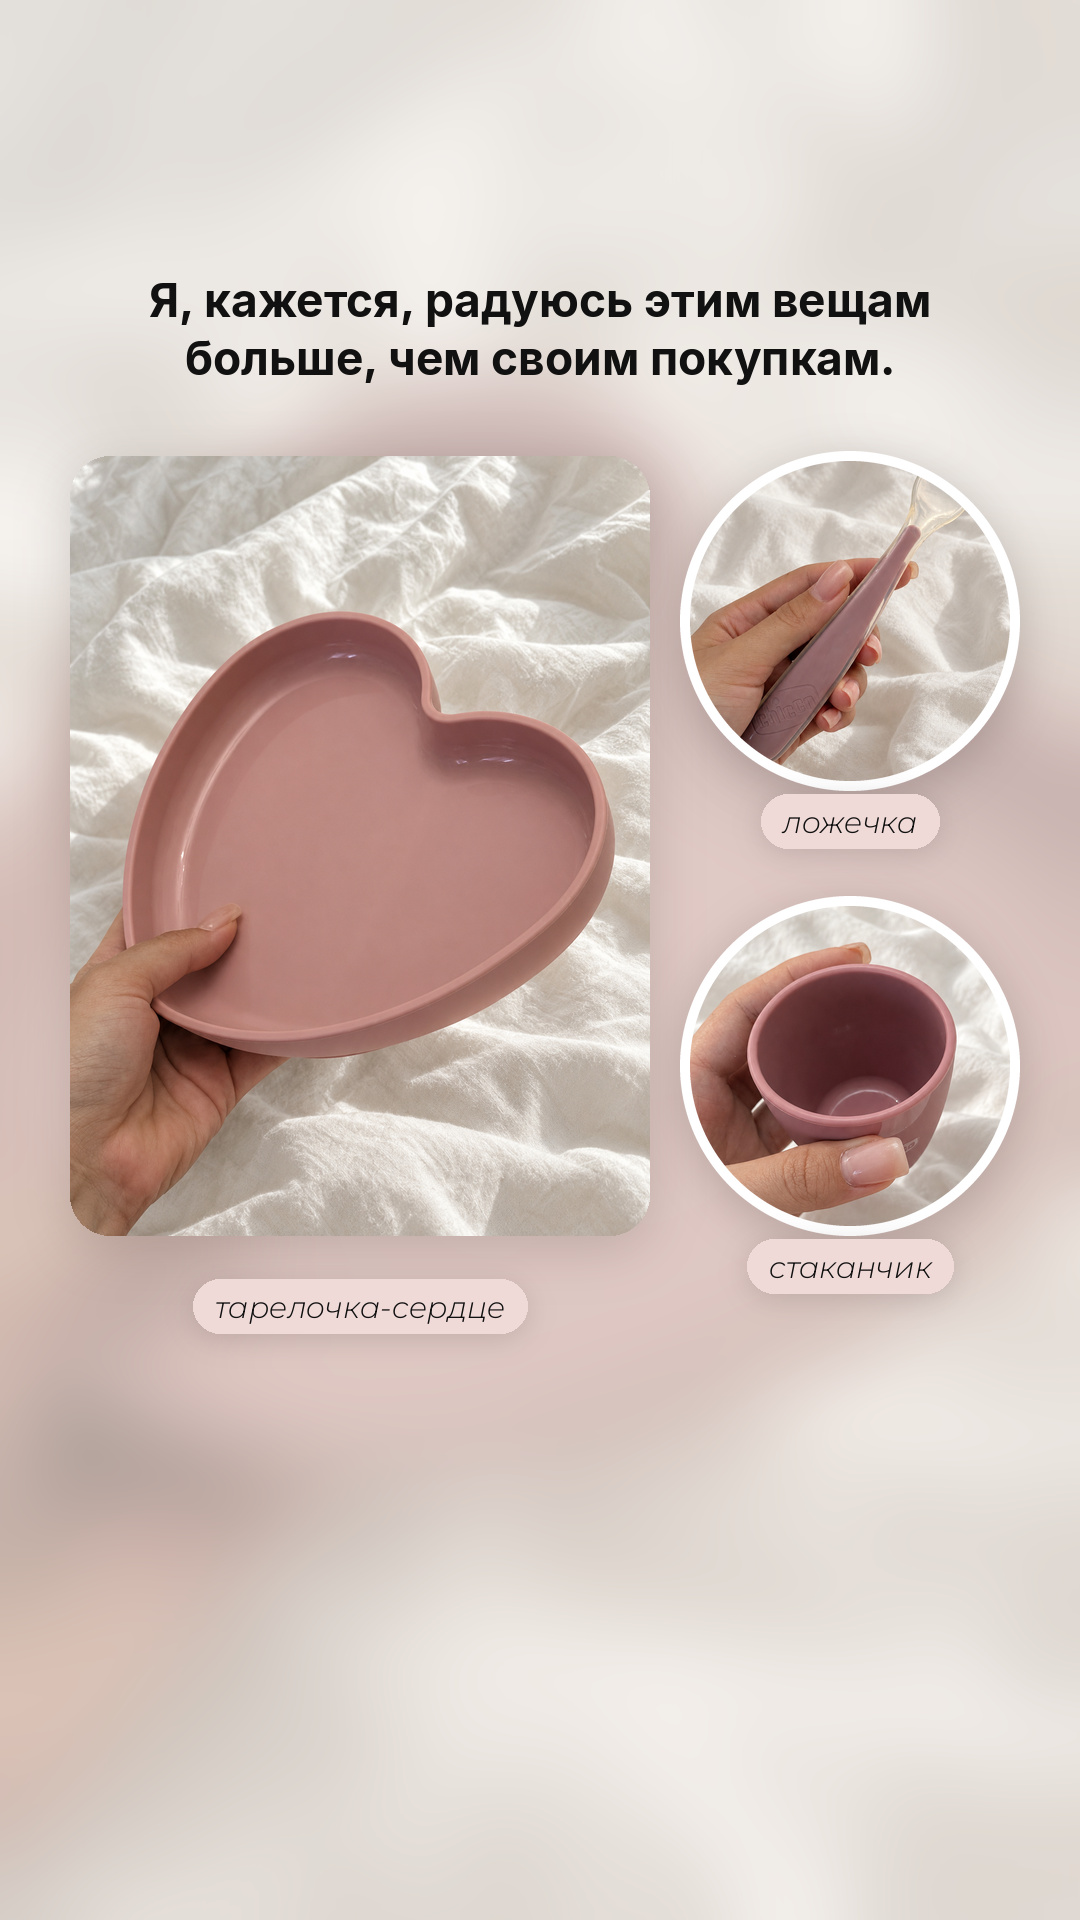
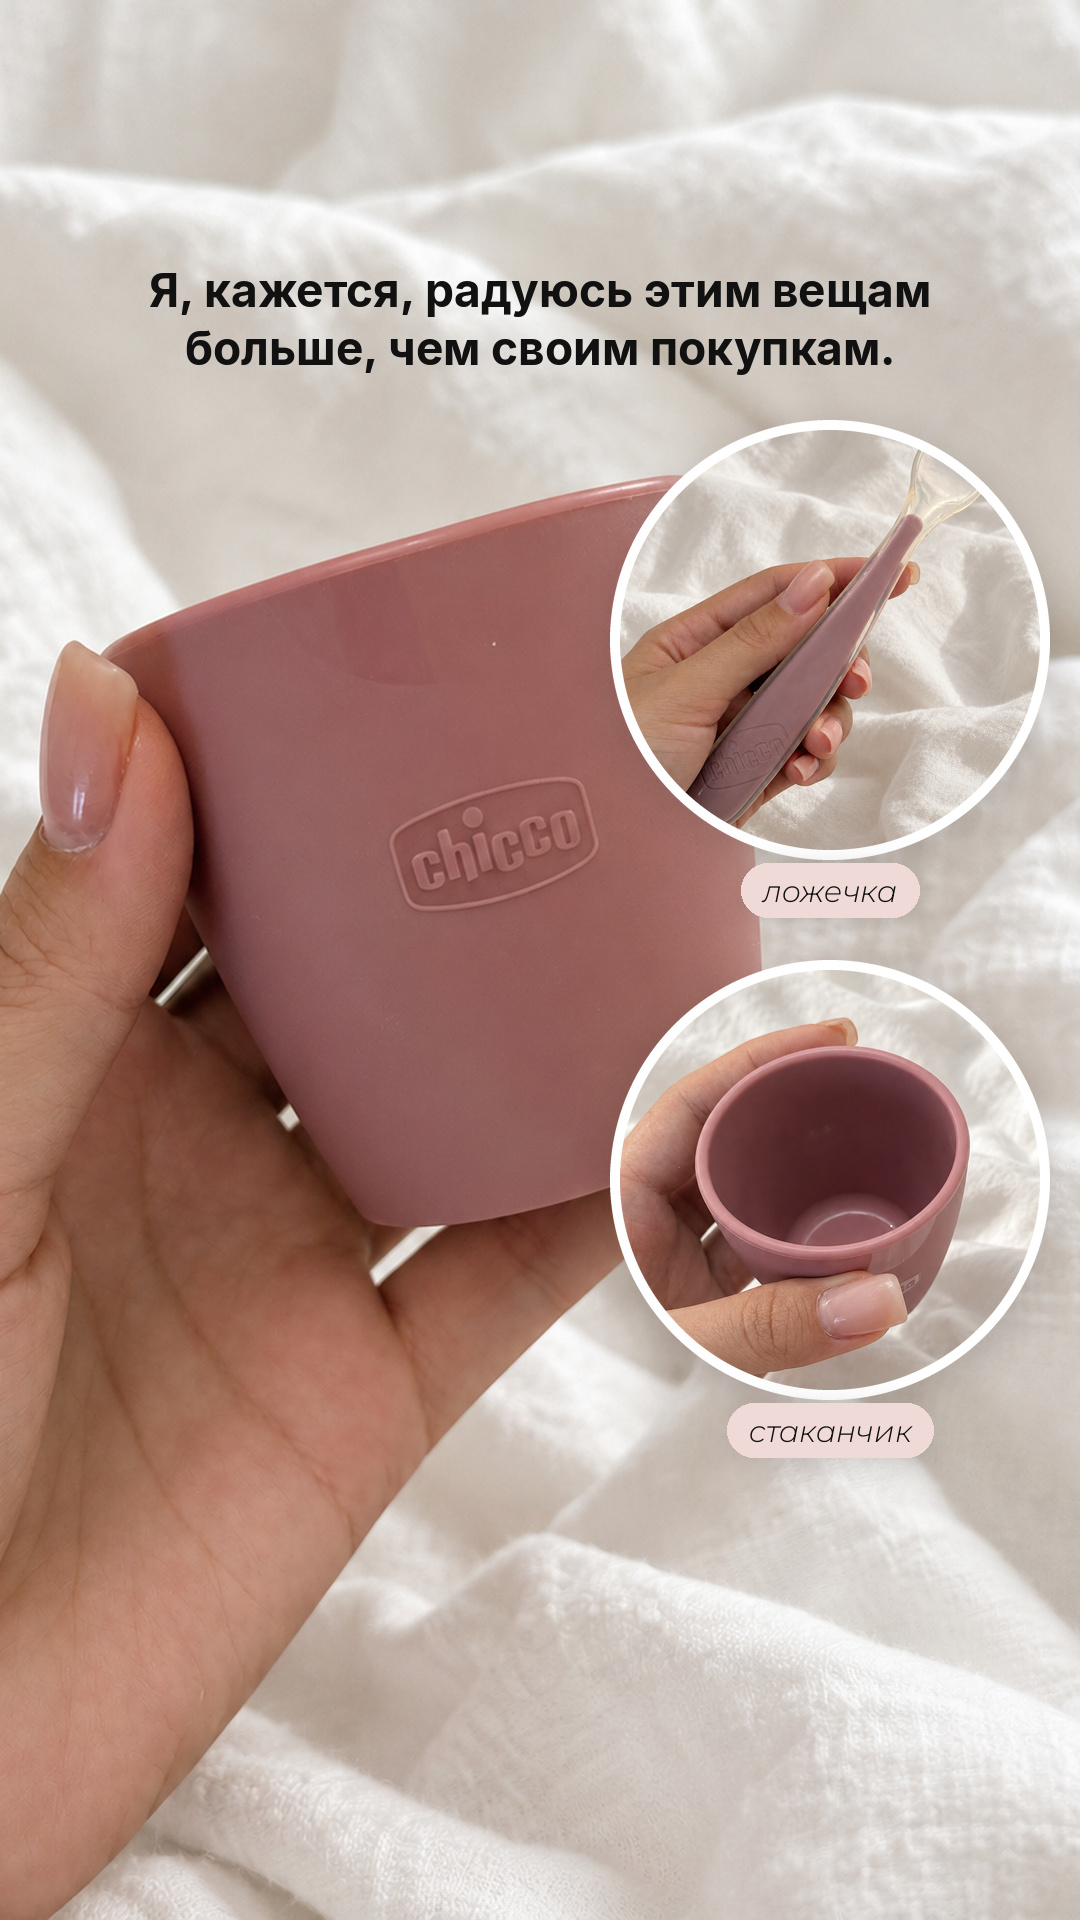
Stories gifts: full-bleed photo covers, bigger circles
Claude-Session: https://claude.ai/code/session_012YshTqjf4Bh49UeEqyfujw

diff --git a/tools/stories_gifts.py b/tools/stories_gifts.py
@@ -1,55 +1,54 @@
 """@mcg.va — «подарочки из Италии» (Chicco set + Italian clothes), minimal stories 1080x1920.
-  story 1: soft blurred linen, the full Chicco set as a rounded card, the cup in a circle on its corner, the story opening
-  story 2: blurred linen, the heart plate card + spoon and cup in circles, pastel pills, the «больше, чем своим покупкам» line
+  story 1 (cover): the heart plate full screen, the whole set in a big circle, white type over a bottom spray
+  story 2: the cup full screen, spoon and cup-from-above in big circles with pastel pills, the «больше, чем своим покупкам» line
   story 3: the cherry sweater full screen, the jacket in a circle, the punchline on a white card
 Fonts (stories_kit): main = Inter Bold, second = thin Montserrat, detail = Montserrat Italic.
   python3 -I stories_gifts.py spoon plate sweater jacket set cup_side cup_top out_dir
 """
 import os, sys
 import numpy as np
-from PIL import Image, ImageDraw, ImageFilter
+from PIL import Image, ImageDraw
 sys.path.insert(0, os.path.dirname(os.path.abspath(__file__)))
 from stories_kit import W, H, INK, font
-from stories_pacifiers import rounded_card, circle, block, fill
+from stories_pacifiers import circle, block, fill
 from stories_walk_look import shadowed
 
 PILL = (240, 218, 216)          # blush from the silicone
 COCOA = (130, 93, 77)
-
-def linen(ph, blur=30, lift=0.15):
-    """the photo's own white linen, blurred and lifted a touch → a soft page"""
-    a = np.asarray(fill(ph).filter(ImageFilter.GaussianBlur(blur)), np.float32)
-    return Image.fromarray((a * (1 - lift) + np.array((250, 246, 243), np.float32) * lift).clip(0, 255).astype(np.uint8))
 
 def pill(img, text, cx, cy):
     f = font("detail", 30); w, h = f.getlength(text) + 44, 54; x0, y0 = cx - w / 2, cy - h / 2
     shadowed(img, (x0, y0, x0 + w, y0 + h), h // 2, blur=14, off=5, alpha=0.16, fill=PILL)
     ImageDraw.Draw(img).text((cx, cy + 1), text, font=f, fill=INK, anchor="mm")
 
-def story1(set_, cup_side, out):
-    img = linen(set_, 30, 0.3); d = ImageDraw.Draw(img)
-    y = block(d, "Ой, как же я теперь люблю подарочки для дочки.", "main", 52, 300, 64, 860)
-    rounded_card(img, set_, (70, y + 40, W - 70, y + 40 + 760), 40)
-    circle(img, cup_side, 850, y + 40 + 740, 300, (56, 280, 856, 1080))
+def shade(img, start=0.6, k=0.72):
+    """soft dark spray at the very bottom so white type reads"""
+    a = np.asarray(img, np.float32); y = np.linspace(0, 1, H, dtype=np.float32)[:, None, None]
+    a *= 1 - np.clip((y - start) / (1 - start), 0, 1) ** 1.3 * k
+    return Image.fromarray(a.clip(0, 255).astype(np.uint8))
+
+def story1(plate, set_, out):
+    """cover: the heart plate full screen, the whole set in a big circle, white type over the bottom spray"""
+    img = shade(fill(plate), 0.55)
+    circle(img, set_, 790, 520, 500, (131, 0, 1217, 1086))           # square crop of the landscape set
     d = ImageDraw.Draw(img)
-    block(d, "Приехал её дядя из Италии и привёз столько красотыыыы!", "second", 38, y + 40 + 760 + 120, 52, 640, x=90)
+    y = block(d, "Ой, как же я теперь люблю подарочки для дочки.", "main", 52, 1330, 64, 880, col=(255, 255, 255))
+    block(d, "Приехал её дядя из Италии и привёз столько красотыыыы!", "second", 38, y + 20, 52, 880, col=(255, 255, 255))
     img.save(out, quality=95, subsampling=0)
 
-def story2(plate, spoon, cup_top, out):
-    img = linen(plate, 40, 0.6); d = ImageDraw.Draw(img)
-    y = block(d, "Я, кажется, радуюсь этим вещам больше, чем своим покупкам.", "main", 46, 300, 58, 860)
-    top = y + 40
-    rounded_card(img, plate, (70, top, 650, top + 780), 40)
-    circle(img, spoon, 850, top + 165, 320, (50, 310, 950, 1210))
-    circle(img, cup_top, 850, top + 610, 320, (167, 314, 927, 1074))
-    pill(img, "тарелочка-сердце", 360, top + 780 + 70)
-    pill(img, "ложечка", 850, top + 165 + 200)
-    pill(img, "стаканчик", 850, top + 610 + 200)
+def story2(cup_side, spoon, cup_top, out):
+    """the cup full screen, spoon and cup-from-above in big circles, dark type on the linen above"""
+    img = fill(cup_side); d = ImageDraw.Draw(img)
+    block(d, "Я, кажется, радуюсь этим вещам больше, чем своим покупкам.", "main", 46, 290, 58, 880)
+    circle(img, spoon, 830, 640, 420, (50, 310, 950, 1210))
+    circle(img, cup_top, 830, 1180, 420, (167, 314, 927, 1074))
+    pill(img, "ложечка", 830, 640 + 250)
+    pill(img, "стаканчик", 830, 1180 + 250)
     img.save(out, quality=95, subsampling=0)
 
 def story3(sweater, jacket, out):
     img = fill(sweater)
-    circle(img, jacket, 250, 400, 340, (51, 194, 1051, 1194))
+    circle(img, jacket, 300, 500, 480, (51, 194, 1051, 1194))
     x0, x1, y0, y1 = 110, W - 110, 1370, 1560
     shadowed(img, (x0, y0, x1, y1), 36)
     d = ImageDraw.Draw(img)
@@ -58,6 +57,6 @@ def story3(sweater, jacket, out):
 
 if __name__ == "__main__":
     spoon, plate, sweater, jacket, set_, cup_side, cup_top = (Image.open(p).convert("RGB") for p in sys.argv[1:8]); od = sys.argv[8]
-    story1(set_, cup_side, os.path.join(od, "podarki_1.jpg"))
-    story2(plate, spoon, cup_top, os.path.join(od, "podarki_2.jpg"))
+    story1(plate, set_, os.path.join(od, "podarki_1.jpg"))
+    story2(cup_side, spoon, cup_top, os.path.join(od, "podarki_2.jpg"))
     story3(sweater, jacket, os.path.join(od, "podarki_3.jpg"))
